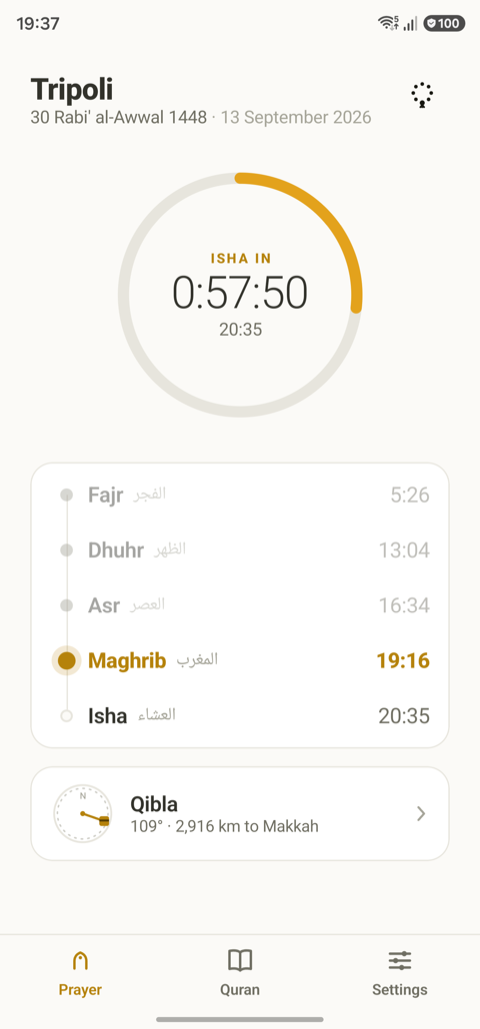
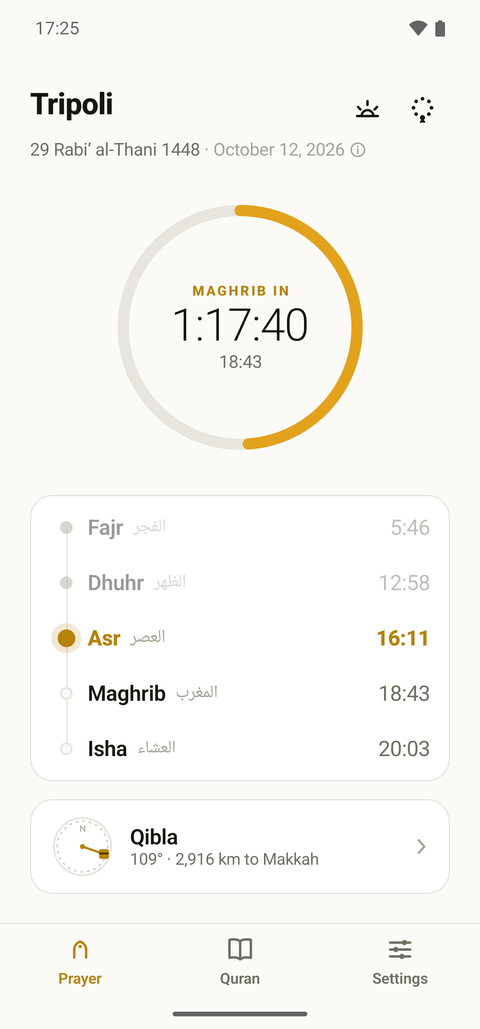
README: 1.1.0: the morning and evening adhkar (a bullet of their own, the roadmap, the attribution and licence lines), the 12-hour clock, Rate and Share; the screenshots of the screens 1.1.0 changed re-shot, and the Adhkar screen in English and Arabic in a row of its own

diff --git a/README.md b/README.md
@@ -28,7 +28,7 @@
 </p>
 
 <p align="center">
-  <img src="docs/screenshots/prayer-light.png" width="200" alt="Prayer screen: a countdown ring to Isha, the day's five prayer times, and the Qibla card">
+  <img src="docs/screenshots/prayer-light.png" width="200" alt="Prayer screen: a countdown ring to Maghrib, the day's five prayer times with Asr current, and the Qibla card">
   &nbsp;
   <img src="docs/screenshots/mushaf.png" width="200" alt="Mushaf mode: Al-Fatihah on its page, in the Madinah Mushaf typeface">
   &nbsp;
@@ -39,11 +39,11 @@
 
 ---
 
-Taqwa is an Islamic app for Android and iPhone, built from one Kotlin Multiplatform codebase. It does a few things and tries to do them properly: tell you the prayer times where you are, call you to them, point you to Makkah, and carry the Quran with recitation. Everything is computed on the phone. There is no server, no sign-in, no analytics and nothing to pay for, now or later.
+Taqwa is an Islamic app for Android and iPhone, built from one Kotlin Multiplatform codebase. It does a few things and tries to do them properly: tell you the prayer times where you are, call you to them, point you to Makkah, and carry the Quran with recitation and the morning and evening adhkar. Everything is computed on the phone. There is no server, no sign-in, no analytics and nothing to pay for, now or later.
 
 ## What it does
 
-- **Prayer times** for anywhere on Earth, from your location or a bundled offline database of cities. The default, Automatic, follows the timetable the local mosques use: where Taqwa holds that timetable it reproduces it on the phone, and before every release a gate replays every published day it holds, so on every day checked no prayer starts before the published time; where mosques follow different timetables it shows each prayer once all have begun it; where no timetable is known it calculates on the safe side. The (i) on the Prayer screen and About these times say whose times they are and how they were checked, and Match my mosque looks for a mosque's timetable from two times on its board. The classic methods (Muslim World League, Umm al-Qura, Egyptian, Karachi, ISNA and more) are still there under Other methods, and so are Hanafi or Standard Asr, high-latitude rules and per-prayer adjustments. Friday's Dhuhr carries a Jumuʿah pill.
+- **Prayer times** for anywhere on Earth, from your location or a bundled offline database of cities. The default, Automatic, follows the timetable the local mosques use: where Taqwa holds that timetable it reproduces it on the phone, and before every release a gate replays every published day it holds, so on every day checked no prayer starts before the published time; where mosques follow different timetables it shows each prayer once all have begun it; where no timetable is known it calculates on the safe side. The (i) on the Prayer screen and About these times say whose times they are and how they were checked, and Match my mosque looks for a mosque's timetable from two times on its board. The classic methods (Muslim World League, Umm al-Qura, Egyptian, Karachi, ISNA and more) are still there under Other methods, and so are Hanafi or Standard Asr, high-latitude rules and per-prayer adjustments. Friday's Dhuhr carries a Jumuʿah pill. Times are shown on a 24-hour clock by default, or on a 12-hour one under Settings › Prayer times › Time format.
 - **A live countdown** to the next prayer, on the Prayer screen and in home-screen widgets on both platforms. The widgets keep counting across prayers without the app being opened.
 - **Adhan.** A notification for each prayer, with a choice per prayer between silence, a clear tone, a takbir, or the opening of the adhan in a choice of three voices. Optional reminder a few minutes before, and an optional notification for Tahajjud when the last third of the night begins.
 - **Qibla compass** corrected to true north, with the great-circle distance to Makkah and honest calibration guidance when the phone's compass needs it, instead of a needle that pretends.
@@ -51,9 +51,10 @@ Taqwa is an Islamic app for Android and iPhone, built from one Kotlin Multiplatf
 - **The Quran** with the Uthmani text in the Madinah Mushaf typeface, seven translations and a transliteration, a page-accurate Mushaf mode, search in Arabic or in the chosen translation with the matched words lit in the verse, bookmarks, a continue-reading card, and copy or share of any ayah. All of it offline.
 - **Recitation** by ten reciters, downloaded a surah at a time (or the whole Quran for a reciter) and then played offline with the ayah lit and the page following the voice, in the background with lock-screen controls and a surah clock. A speaker button in the reader, a Play action on any ayah, previous and next by surah, and a picker with a fifteen-second preview of each voice.
 - **Read-aloud.** During recitation, the phone's own text-to-speech voice can read the translation or tafsir after each ayah, where the phone has an offline voice for that language; on Android, Get the voice opens the speech engine's own download when it lacks one. The Quran itself is only ever recited, never read by a phone voice.
+- **Adhkar.** The morning and evening adhkar of *Hisn al-Muslim*, nineteen items from the OpenDua dataset (CC BY 4.0), behind the horizon icon beside the misbaha on the Prayer screen's header. Each is in Arabic with its references, and with a translation under every interface but Arabic: the supplications in the interface language, the Quran in the translation chosen in the reader; under a Latin-script interface the supplications can show a transliteration too. Tap anywhere on the page to count; each is said its own number of times, from once to a hundred. The Quranic ones, Ayat al-Kursi and the three Quls, are recited by your chosen reciter and never read by a phone voice. An optional reminder comes half an hour after Fajr for the morning set and after Asr for the evening one, unless that set has already been said.
 - **Tasbeeh.** A dhikr counter behind the misbaha icon on the Prayer screen: tap anywhere to count, the post-prayer set runs to a hundred with the dhikr changing at each part and a distinct pulse in the hand, a completed set rolls over on its own, your own phrases can be added, and nothing is ever totted up.
 - **An ayah widget** showing one verse a day, in the same Uthmani typeface and translation as the reader, from a curated pool of a hundred that cycles without repeats. Tapping it opens that ayah in the app.
-- **Privacy you can check.** Settings › About Taqwa says what stays on the phone and what the internet is used for, and links the website, the policy, the source and the licence. If the app ever closes unexpectedly, it keeps a technical report on the phone and offers, once, to email it to support; nothing is sent unless you choose to.
+- **Privacy you can check.** Settings › About Taqwa says what stays on the phone and what the internet is used for, and links the website, the policy, the source and the licence. If the app ever closes unexpectedly, it keeps a technical report on the phone and offers, once, to email it to support; nothing is sent unless you choose to. Rate Taqwa and Share Taqwa, in the same section, do nothing until tapped; the app never asks for a review.
 - **Seven languages.** Arabic, English, French, Turkish, Indonesian, Urdu and Bengali, following the phone's language or a per-app choice. Arabic and Urdu are laid out right to left with the locale's own digits, not translated over an English layout; Bengali keeps its own digits too.
 - **Light and dark**, following the system or fixed, in one amber accent.
 
@@ -85,6 +86,12 @@ Three widgets, on Android and iOS: a **small** one with the next prayer and a li
   <img src="docs/screenshots/about.png" width="200" alt="About Taqwa: version, the privacy model in three lines, and links to the website, the policy, the source and the licence">
   &nbsp;
   <img src="docs/screenshots/reader-dark.png" width="200" alt="The reader in the dark theme">
+</p>
+
+<p align="center">
+  <img src="docs/screenshots/adhkar.png" width="200" alt="The evening adhkar: an ayah in the Mushaf typeface with its translation, and the count">
+  &nbsp;
+  <img src="docs/screenshots/adhkar-arabic.png" width="200" alt="The evening adhkar under the Arabic interface, the ayah without a translation">
 </p>
 
 <p align="center">
@@ -121,7 +128,7 @@ Taqwa is built in slices. Each slice ships as a complete, usable app.
 | 1 | Prayer times, notifications, Qibla, widgets, settings, Arabic | **Done** |
 | 2 | Quran reader: Arabic text with translations, Mushaf mode, search, bookmarks, share; bundled offline | **Done** |
 | 3 | Quran audio: ten reciters, per-surah downloads, background playback with the page following | **Done** |
-| 4 | Dhikr: tasbeeh counter | **Done** |
+| 4 | Dhikr: tasbeeh counter, morning and evening adhkar | **Done** |
 
 Deliberately out of scope: mosque finder, zakat calculator, hadith collections, community features, anything that needs a server.
 
@@ -206,10 +213,10 @@ Taqwa asks for your location only to compute prayer times and the Qibla, and onl
 
 ## Attribution
 
-Prayer times from Taqwa's own engine, the Qibla bearing by [Adhan](https://github.com/batoulapps/adhan-kotlin) (MIT), city data from [GeoNames](https://www.geonames.org/) (CC BY 4.0), the Manrope typeface (SIL OFL 1.1), and three adhan and takbir recordings from Wikimedia Commons — "Beautiful adhan" by Adam-synagda (CC0), "The Adhan – Muslim Call to Prayer – Aaqib Azeez" (CC BY-SA 4.0) and "Eid al-Fitr Fajr azan at Malmö Mosque" by Islamic Center Malmö (CC BY 3.0). The Quran text and its translations are from the [Tanzil Project](https://tanzil.net), the reading font is KFGQPC Uthmanic Script Hafs from the King Fahd Glorious Quran Printing Complex, and the Mushaf page layout comes from the Quranic Universal Library data. The recitations are the [Islamic Network](https://alquran.cloud) per-ayah recordings, licensed to them by the reciters for free, non-commercial redistribution at the bitrates they publish and mirrored unmodified — Alafasy, Abdul Basit, Maher Al Muaiqly, Al-Husary, Al-Minshawi, As-Sudais, Ash-Shuraim, Ash-Shatri, Al-Hudhaify and Al-Ajmi, each credited by name in the app. The morning and evening adhkar are based on *Hisn al-Muslim* by Saʿid ibn ʿAli ibn Wahf al-Qahtani, through the [OpenDua](https://opendua.org) dataset by the Human Development Fund (CC BY 4.0). Full details in [`docs/ATTRIBUTION.md`](docs/ATTRIBUTION.md) and in the app under Settings › Attribution & licences.
+Prayer times from Taqwa's own engine, the Qibla bearing by [Adhan](https://github.com/batoulapps/adhan-kotlin) (MIT), city data from [GeoNames](https://www.geonames.org/) (CC BY 4.0), the Manrope typeface (SIL OFL 1.1), and three adhan and takbir recordings from Wikimedia Commons — "Beautiful adhan" by Adam-synagda (CC0), "The Adhan – Muslim Call to Prayer – Aaqib Azeez" (CC BY-SA 4.0) and "Eid al-Fitr Fajr azan at Malmö Mosque" by Islamic Center Malmö (CC BY 3.0). The Quran text and its translations are from the [Tanzil Project](https://tanzil.net), the reading font is KFGQPC Uthmanic Script Hafs from the King Fahd Glorious Quran Printing Complex, and the Mushaf page layout comes from the Quranic Universal Library data. The recitations are the [Islamic Network](https://alquran.cloud) per-ayah recordings, licensed to them by the reciters for free, non-commercial redistribution at the bitrates they publish and mirrored unmodified — Alafasy, Abdul Basit, Maher Al Muaiqly, Al-Husary, Al-Minshawi, As-Sudais, Ash-Shuraim, Ash-Shatri, Al-Hudhaify and Al-Ajmi, each credited by name in the app. Four of Alafasy's clips (Ayat al-Kursi and the three Quls) are bundled, unmodified, for the adhkar's first run, before those surahs are downloaded. The morning and evening adhkar are based on *Hisn al-Muslim* by Saʿid ibn ʿAli ibn Wahf al-Qahtani, through the [OpenDua](https://opendua.org) dataset by the Human Development Fund (CC BY 4.0). Full details in [`docs/ATTRIBUTION.md`](docs/ATTRIBUTION.md) and in the app under Settings › Attribution & licences.
 
 ## Licence
 
-Taqwa is free software under the [GNU General Public License v3.0](LICENSE). You may use, study, share and modify it, and anything you distribute that is built from it must stay under the same licence with its source available. That is deliberate: it keeps a free, ad-free app from being repackaged as neither. The bundled Quran text, translations, typefaces, city data and audio are third-party works under their own licences, not the GPL, listed above and in the app; see [NOTICE](NOTICE) and [docs/ATTRIBUTION.md](docs/ATTRIBUTION.md).
+Taqwa is free software under the [GNU General Public License v3.0](LICENSE). You may use, study, share and modify it, and anything you distribute that is built from it must stay under the same licence with its source available. That is deliberate: it keeps a free, ad-free app from being repackaged as neither. The bundled Quran text, translations, adhkar texts, typefaces, city data and audio are third-party works under their own licences, not the GPL, listed above and in the app; see [NOTICE](NOTICE) and [docs/ATTRIBUTION.md](docs/ATTRIBUTION.md).
 
 Copyright © 2026 Mohamed Abulgasem.
